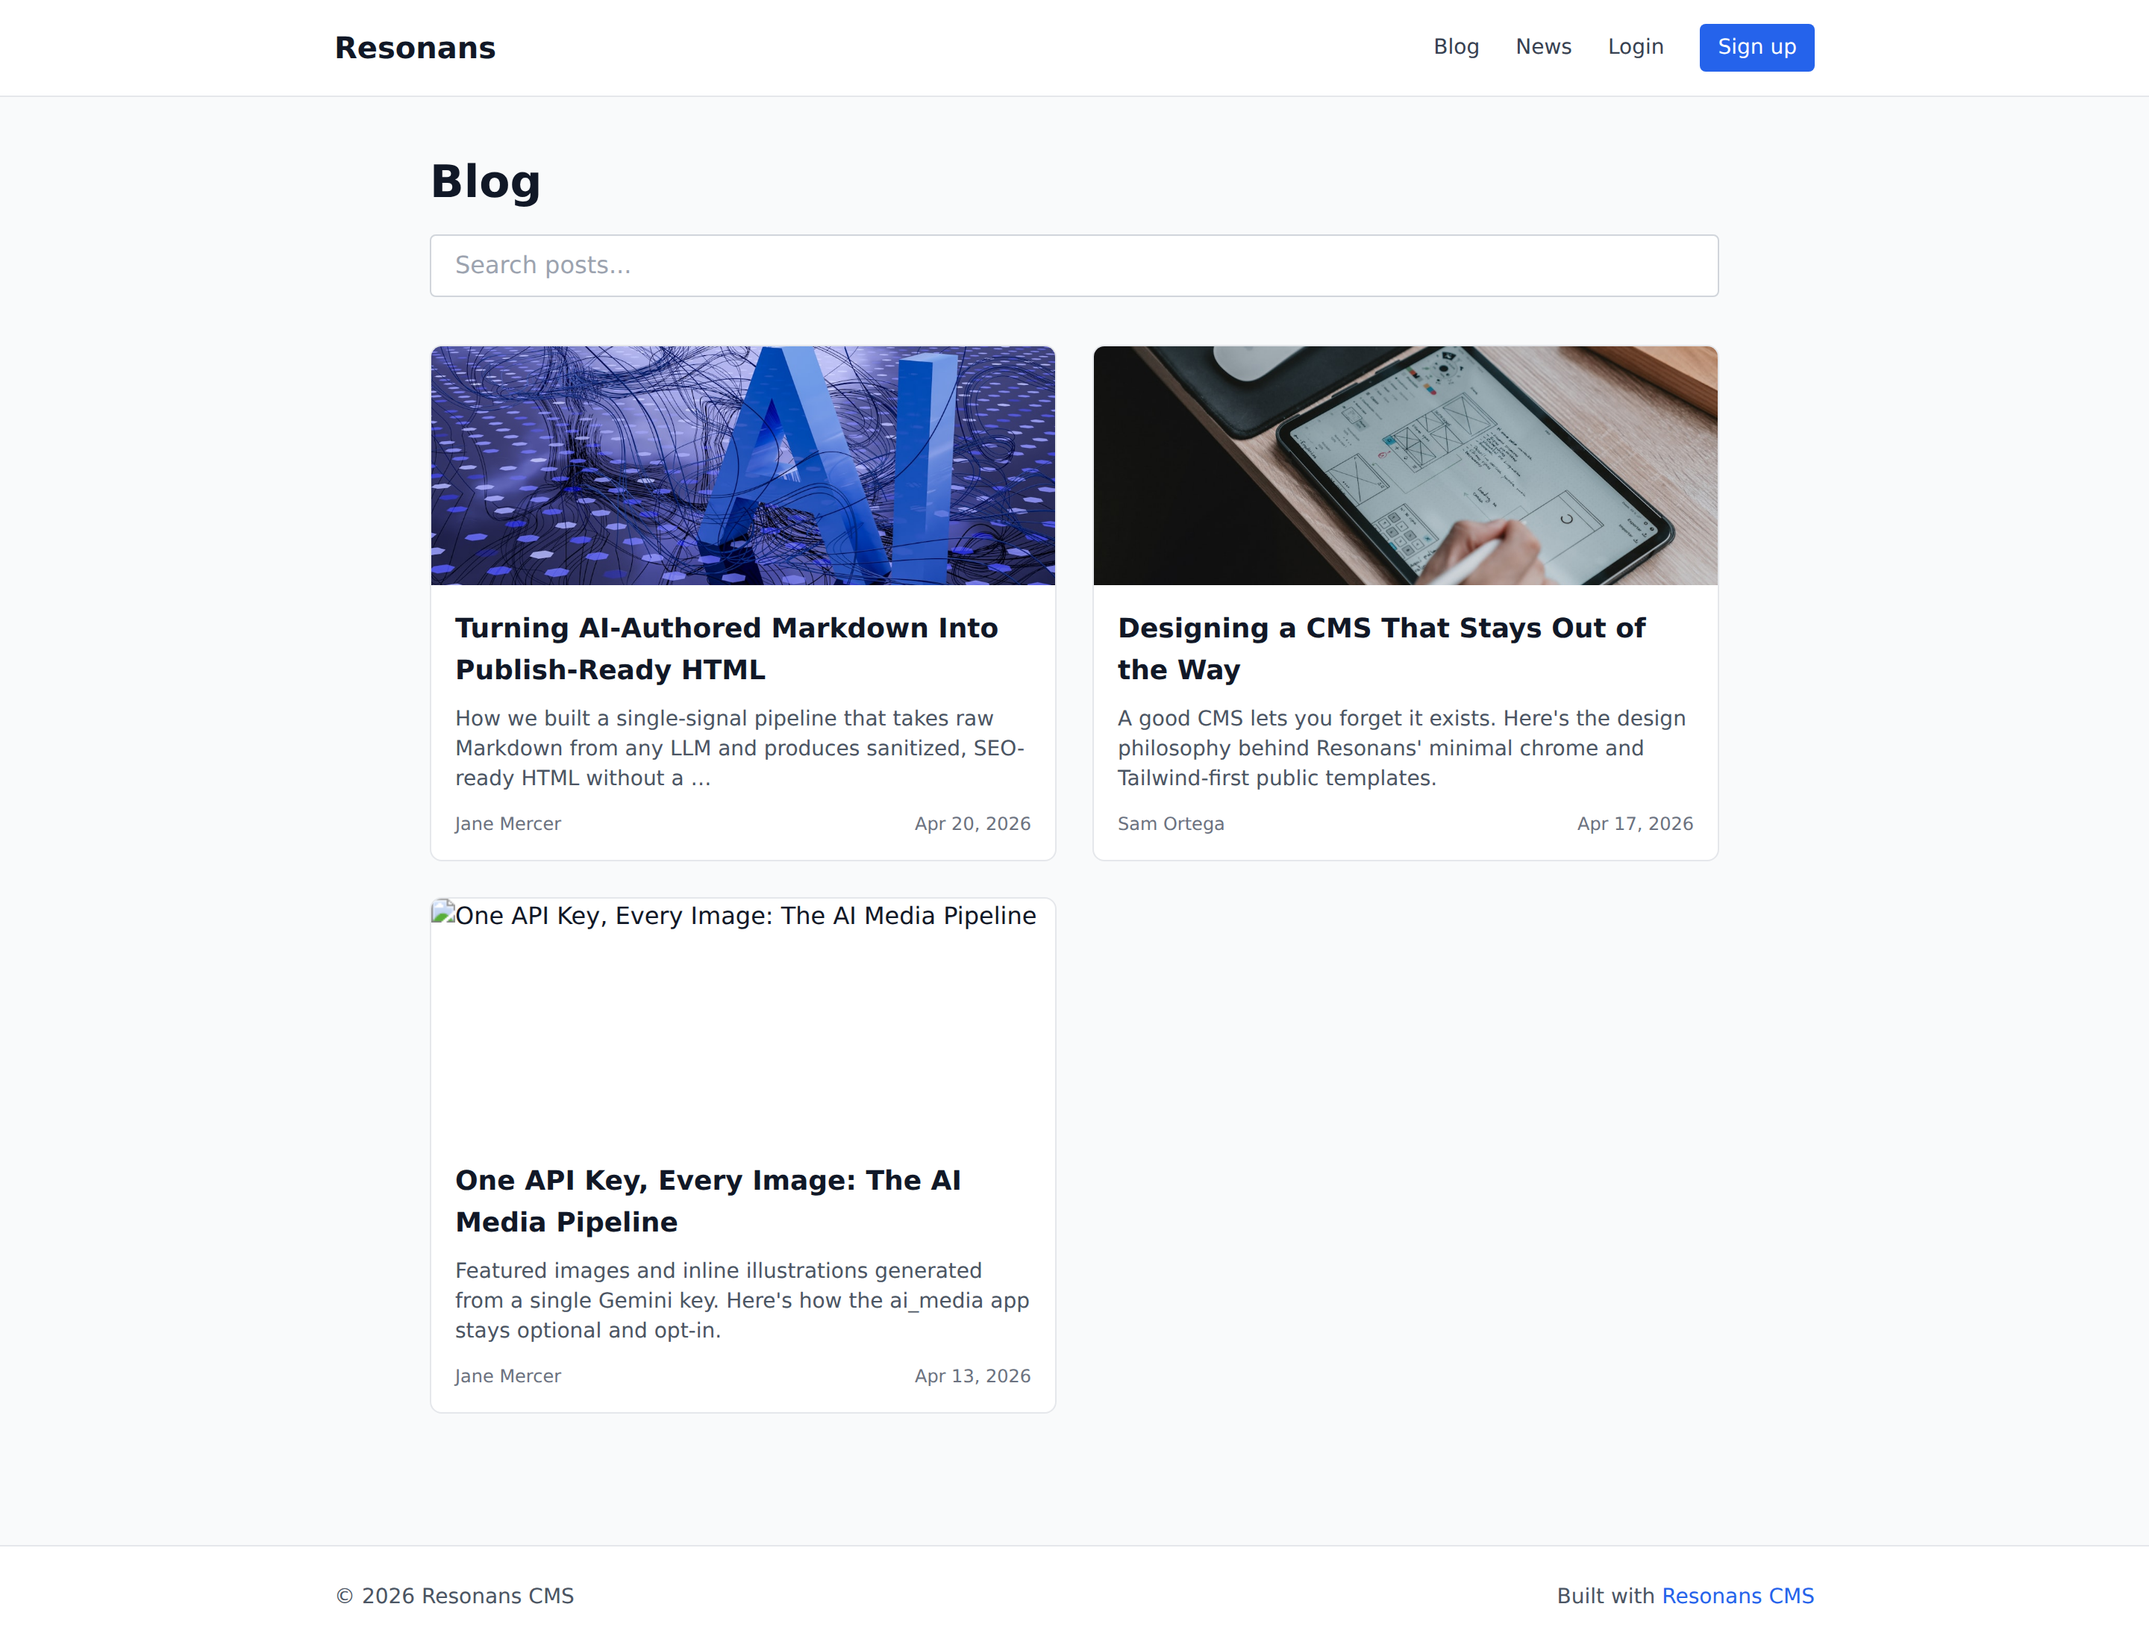
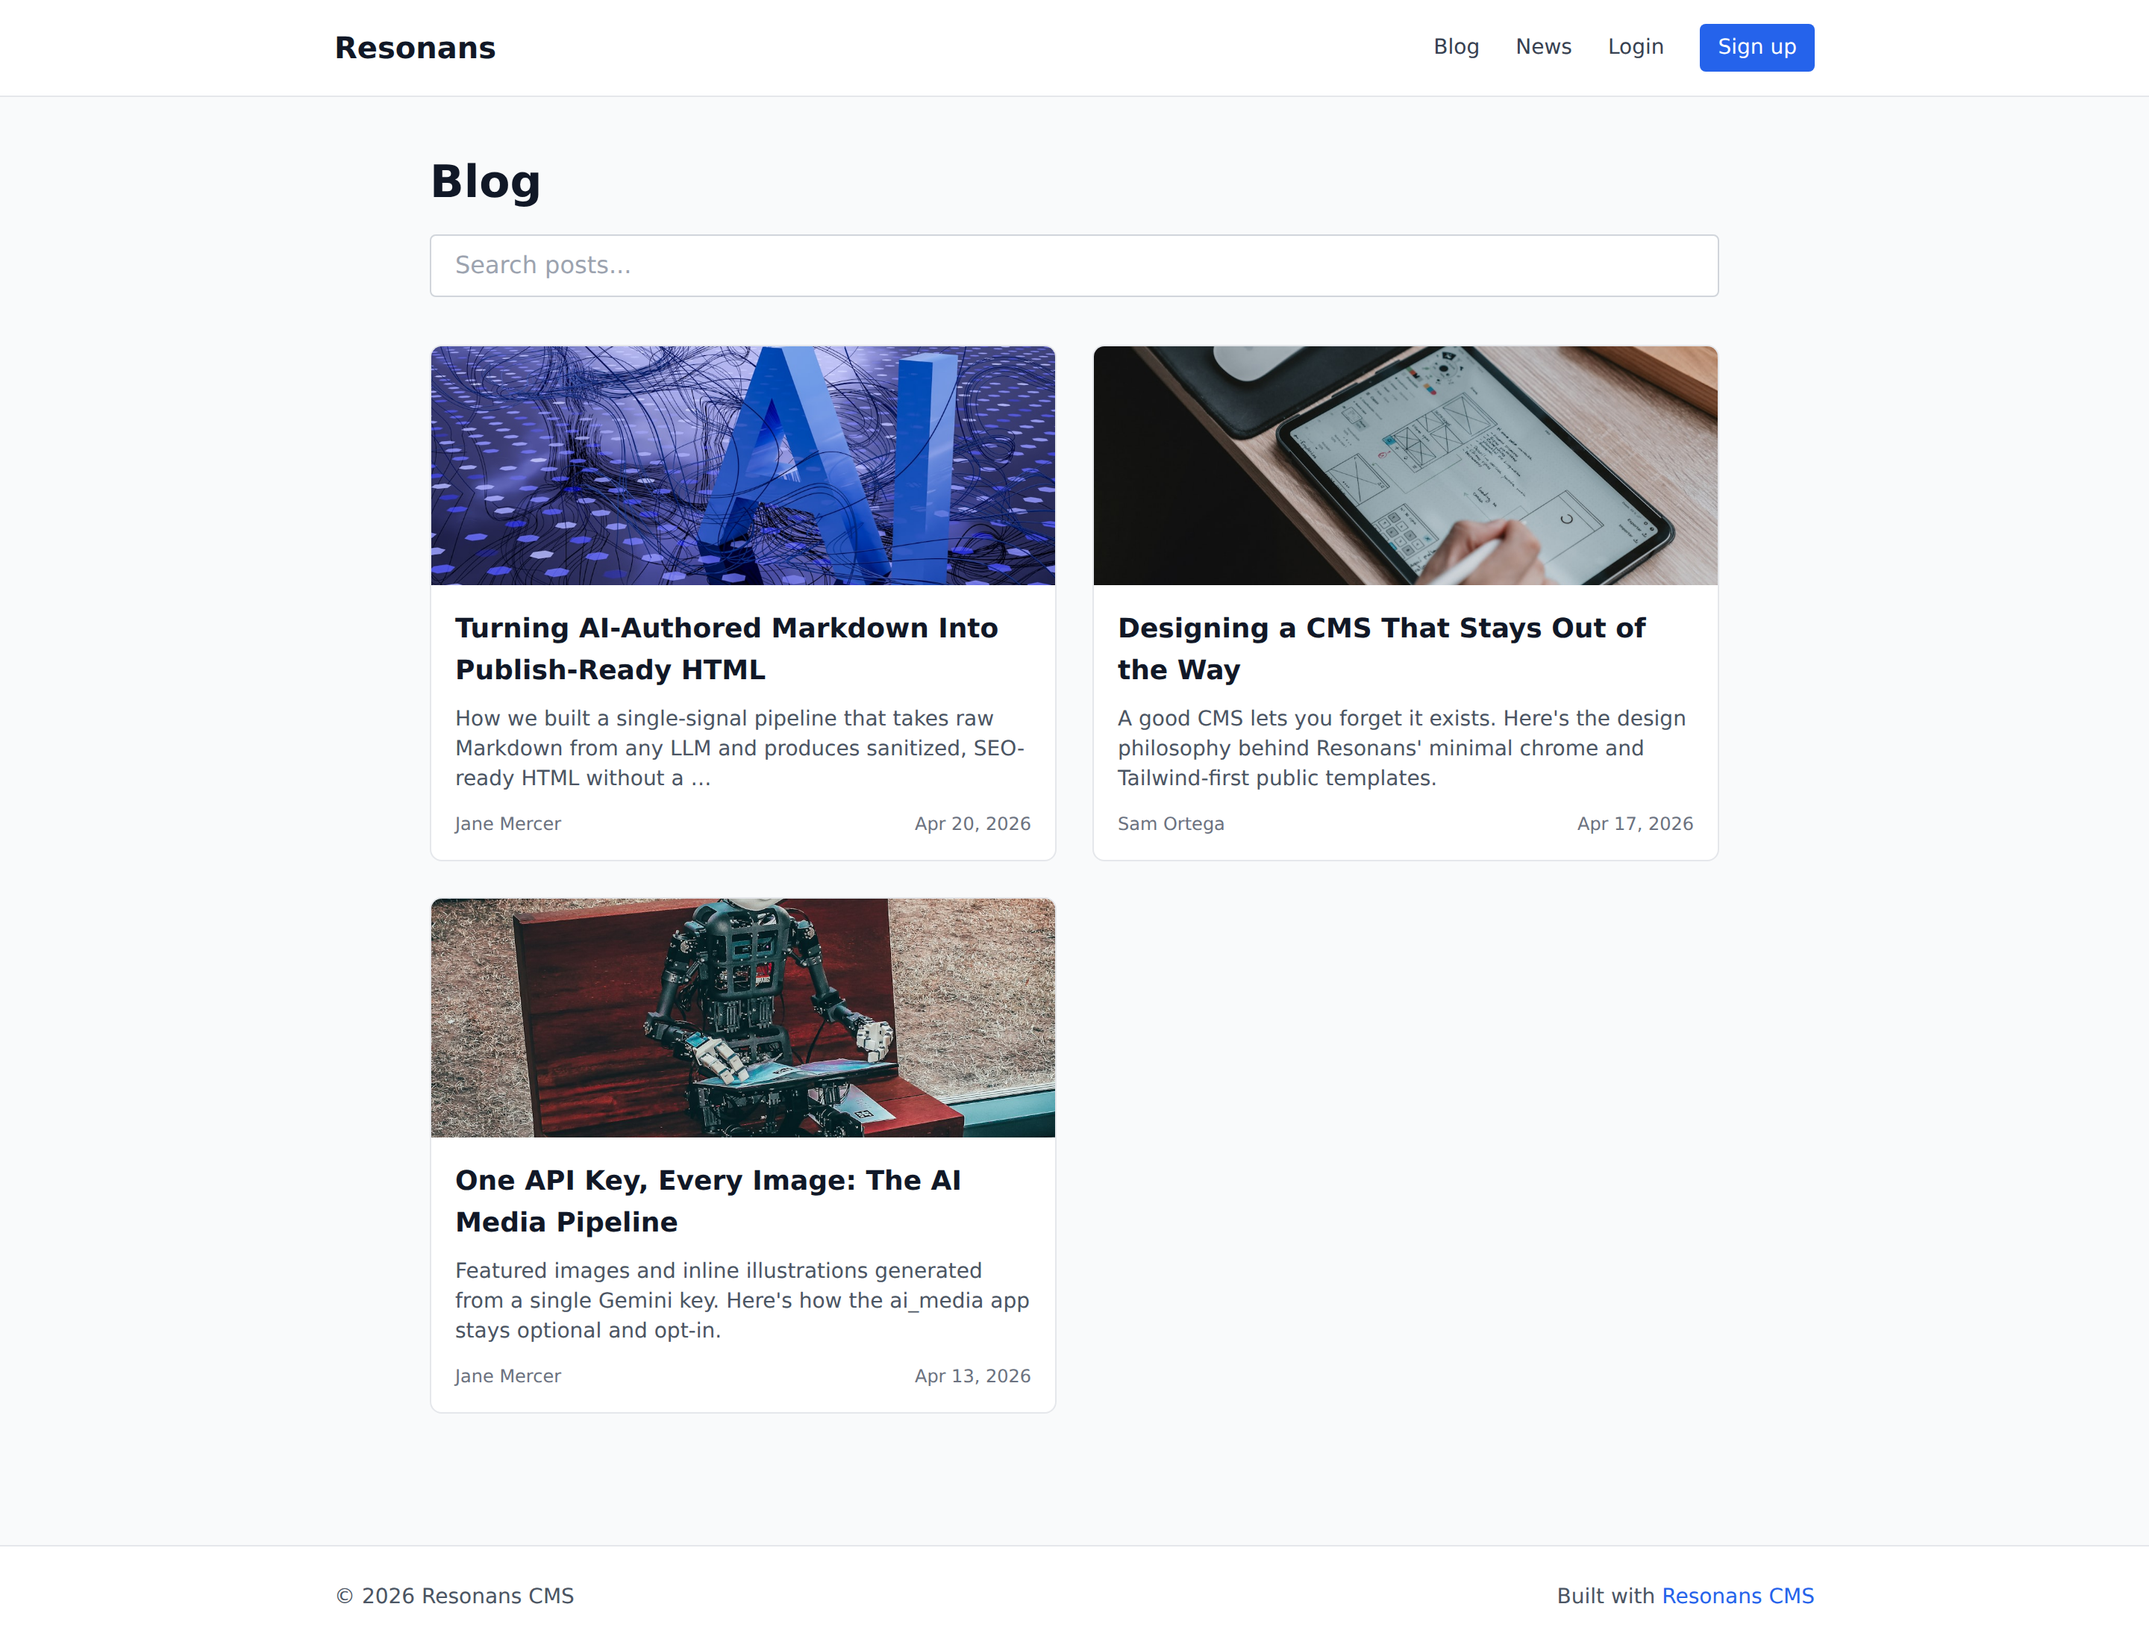
Add seed_demo management command and fix third post image
- New `python manage.py seed_demo [--reset]` creates two authors, three
  blog posts, two news articles, a newsletter sign-up list, and an
  internal-linking intent. Idempotent by default; --reset wipes first.
- Replace the broken Unsplash URL on the "One API Key, Every Image"
  post with a working one.
- Refresh the screenshots that showed the missing image (blog list,
  topic list) and the admin lists that changed after reseeding.
- Document the seed command in README.

Changed region(s): [[0.1875, 0.5312, 0.5, 0.6875]]

diff --git a/src/resonans_cms/apps/cms_admin/management/commands/seed_demo.py b/src/resonans_cms/apps/cms_admin/management/commands/seed_demo.py
@@ -1,0 +1,294 @@
+"""
+Seed the database with a small, realistic set of demo content so someone
+who just cloned the repo can see the CMS come alive with one command.
+
+    python manage.py seed_demo           # idempotent: does nothing if content exists
+    python manage.py seed_demo --reset   # wipe and recreate the demo content
+"""
+
+from datetime import timedelta
+
+from django.core.management.base import BaseCommand
+from django.utils import timezone
+
+from resonans_cms.apps.blog.models import (
+    Author,
+    Category,
+    ContentScope,
+    Post,
+    Tag,
+)
+from resonans_cms.apps.core.models import NewsletterSubscriber
+from resonans_cms.apps.linking.models import Keyword, UserIntent
+from resonans_cms.apps.news.models import NewsPost
+
+
+AUTHORS = [
+    {
+        "name": "Jane Mercer",
+        "slug": "jane-mercer",
+        "role": "Editor-in-Chief",
+        "bio": "Covers product strategy, content ops, and the intersection of AI with publishing workflows.",
+        "avatar_url": "https://i.pravatar.cc/200?img=47",
+    },
+    {
+        "name": "Sam Ortega",
+        "slug": "sam-ortega",
+        "role": "Senior Writer",
+        "bio": "Writes about design systems, typography, and building calm user interfaces.",
+        "avatar_url": "https://i.pravatar.cc/200?img=11",
+    },
+]
+
+CATEGORIES = [
+    {"name": "Technology", "slug": "technology", "scope": ContentScope.BLOG, "description": "Deep dives on software, AI, and infrastructure."},
+    {"name": "Design", "slug": "design", "scope": ContentScope.BLOG, "description": "Product design and visual language."},
+    {"name": "Markets", "slug": "markets", "scope": ContentScope.NEWS, "description": "Industry news and market moves."},
+]
+
+TAGS = [
+    ("AI", "ai"),
+    ("Django", "django"),
+    ("CMS", "cms"),
+    ("Design Systems", "design-systems"),
+]
+
+POST_P1_MD = """## Why this matters
+
+Teams that publish AI-generated content hit the same wall: the model emits Markdown, the CMS expects HTML, and the gap between them is full of broken escapes, orphan heading IDs, and `<script>` tags you never asked for.
+
+Resonans CMS closes the gap with a **pre-save signal** that:
+
+1. Accepts Markdown in a dedicated source field
+2. Runs it through markdown2 with fenced code, tables, and strike-through extras
+3. Sanitizes the output with nh3 using an allowlist of tags and attributes
+4. Stores the sanitized HTML in `content_raw` and keeps the Markdown source around for round-trip editing
+
+### What you avoid
+
+- `<style>` injection from prompt leakage
+- Heading IDs longer than 120 characters
+- `<iframe>` and `<object>` tags you didn't allowlist
+- `data:` URIs pointing at SVG
+
+All of this happens transparently at save time.
+
+> "The best sanitizer is the one you never think about."
+
+### Next steps
+
+Next release will add an opt-in prompt-injection filter for the sanitizer.
+"""
+
+POST_P2_MD = """## The invisible CMS
+
+Every CMS wants to be noticed. Tabs everywhere, nested menus, dashboards with twelve widgets you never read. Resonans goes the other way.
+
+### Three rules we follow
+
+1. **Public templates ship with zero brand assumptions.** System fonts, Tailwind utility classes, no "Powered by" headers.
+2. **Admin uses Unfold, not custom chrome.** Every hour building a custom admin is an hour you aren't writing.
+3. **The author never sees HTML.** Markdown goes in, HTML comes out.
+
+### What this looks like in practice
+
+A fresh install gives you a `/blog/` route, an admin under `/admin/`, and a `/cms/` dashboard with six tiles.
+
+No megamenu. No sidebar. Just content and the controls to ship it.
+"""
+
+POST_P3_MD = """Images used to be the slowest part of publishing. Sourcing, licensing, cropping, alt text — every post needed a separate pass. With a single **Gemini API key** in your settings, Resonans generates both hero and inline images from the post's own context.
+
+### The contract
+
+- Set `GEMINI_API_KEY` in your environment, or store it on the singleton `AiSetting`
+- Post save triggers optional image generation (controlled by `auto_generate_on_save`)
+- Missing key? The feature silently disables.
+
+### Why optional
+
+Not every project wants AI images in production. The `ai_media` app is a separate `INSTALLED_APPS` entry:
+
+```bash
+pip install resonans-cms[ai]
+```
+
+Drop the extra and the import lazy-fails to `None`. The core CMS keeps working.
+"""
+
+POSTS = [
+    {
+        "author": "jane-mercer",
+        "category": "technology",
+        "tags": ["ai", "cms", "django"],
+        "title": "Turning AI-Authored Markdown Into Publish-Ready HTML",
+        "slug": "ai-markdown-to-html",
+        "excerpt": "How we built a single-signal pipeline that takes raw Markdown from any LLM and produces sanitized, SEO-ready HTML without a round-trip to staging.",
+        "markdown": POST_P1_MD,
+        "takeaways": "- One signal converts Markdown to sanitized HTML on every save\n- nh3 + markdown2 pipeline: safe by default\n- Round-trip editing preserved via `content_markdown_source`",
+        "image": "https://images.unsplash.com/photo-1677442136019-21780ecad995?w=1200&q=80",
+        "days_ago": 2,
+    },
+    {
+        "author": "sam-ortega",
+        "category": "design",
+        "tags": ["cms", "design-systems"],
+        "title": "Designing a CMS That Stays Out of the Way",
+        "slug": "cms-stays-out-of-the-way",
+        "excerpt": "A good CMS lets you forget it exists. Here's the design philosophy behind Resonans' minimal chrome and Tailwind-first public templates.",
+        "markdown": POST_P2_MD,
+        "takeaways": "- Ship with minimal public chrome so projects add their own brand\n- Use Unfold for admin instead of inventing another dashboard\n- Authors work in Markdown, never raw HTML",
+        "image": "https://images.unsplash.com/photo-1586717791821-3f44a563fa4c?w=1200&q=80",
+        "days_ago": 5,
+    },
+    {
+        "author": "jane-mercer",
+        "category": "technology",
+        "tags": ["ai", "cms"],
+        "title": "One API Key, Every Image: The AI Media Pipeline",
+        "slug": "ai-media-one-api-key",
+        "excerpt": "Featured images and inline illustrations generated from a single Gemini key. Here's how the ai_media app stays optional and opt-in.",
+        "markdown": POST_P3_MD,
+        "takeaways": "- One `GEMINI_API_KEY` powers hero and inline generation\n- The AI app is an optional extras install\n- Singleton `AiSetting` lets non-developers swap models from the admin",
+        "image": "https://images.unsplash.com/photo-1620712943543-bcc4688e7485?w=1200&q=80",
+        "days_ago": 9,
+    },
+]
+
+NEWS = [
+    {
+        "author": "jane-mercer",
+        "category": "markets",
+        "title": "Resonans CMS 0.1.0 Released",
+        "slug": "resonans-cms-0-1-0-released",
+        "excerpt": "The first public release of an AI-friendly Django CMS lands on GitHub today.",
+        "markdown": "The first version of **Resonans CMS** is now available as a public GitHub repo.",
+        "image": "https://images.unsplash.com/photo-1519389950473-47ba0277781c?w=1200&q=80",
+        "days_ago": 1,
+    },
+    {
+        "author": "sam-ortega",
+        "category": "markets",
+        "title": "Unfold 0.90 Lands With Refreshed Dashboard Widgets",
+        "slug": "unfold-0-90-dashboard",
+        "excerpt": "The Django admin theme we ship picks up a new widget library and import/export polish.",
+        "markdown": "Unfold's latest release ships with better dashboard widgets and tighter accessibility defaults.",
+        "image": "https://images.unsplash.com/photo-1460925895917-afdab827c52f?w=1200&q=80",
+        "days_ago": 3,
+    },
+]
+
+INTENTS = [
+    {
+        "name": "Get started with Resonans",
+        "url": "https://github.com/miladsafaei-me/resonans-cms#quick-start",
+        "keywords": ["resonans cms", "AI-friendly django"],
+    },
+]
+
+SUBSCRIBERS = [
+    ("alex@example.com", "US"),
+    ("priya@example.com", "IN"),
+    ("hiro@example.com", "JP"),
+]
+
+
+class Command(BaseCommand):
+    help = "Populate the database with demo blog posts, news, authors, tags, and subscribers."
+
+    def add_arguments(self, parser):
+        parser.add_argument(
+            "--reset",
+            action="store_true",
+            help="Delete existing demo content before seeding.",
+        )
+
+    def handle(self, *args, **options):
+        if options["reset"]:
+            self.stdout.write("Clearing existing CMS content...")
+            Post.objects.all().delete()
+            NewsPost.objects.all().delete()
+            Tag.objects.all().delete()
+            Category.objects.all().delete()
+            Author.objects.all().delete()
+            UserIntent.objects.all().delete()
+            NewsletterSubscriber.objects.all().delete()
+
+        if Post.objects.exists() and not options["reset"]:
+            self.stdout.write(self.style.WARNING(
+                "Database already has posts. Run with --reset to wipe and reseed."
+            ))
+            return
+
+        self.stdout.write("Creating authors...")
+        authors = {
+            data["slug"]: Author.objects.create(
+                name=data["name"],
+                slug=data["slug"],
+                role=data["role"],
+                bio=data["bio"],
+                avatar_url=data["avatar_url"],
+            )
+            for data in AUTHORS
+        }
+
+        self.stdout.write("Creating categories...")
+        categories = {
+            data["slug"]: Category.objects.create(
+                name=data["name"],
+                slug=data["slug"],
+                content_scope=data["scope"],
+                description=data["description"],
+            )
+            for data in CATEGORIES
+        }
+
+        self.stdout.write("Creating tags...")
+        tags = {slug: Tag.objects.create(name=name, slug=slug) for name, slug in TAGS}
+
+        self.stdout.write("Creating blog posts...")
+        now = timezone.now()
+        for data in POSTS:
+            post = Post.objects.create(
+                title=data["title"],
+                slug=data["slug"],
+                excerpt=data["excerpt"],
+                content_markdown_source=data["markdown"],
+                key_takeaways_markdown_source=data["takeaways"],
+                status=Post.Status.PUBLISHED,
+                author=authors[data["author"]],
+                category=categories[data["category"]],
+                featured_image_url=data["image"],
+                published_at=now - timedelta(days=data["days_ago"]),
+            )
+            post.tags.add(*(tags[t] for t in data["tags"]))
+
+        self.stdout.write("Creating news articles...")
+        for data in NEWS:
+            NewsPost.objects.create(
+                title=data["title"],
+                slug=data["slug"],
+                excerpt=data["excerpt"],
+                content_markdown_source=data["markdown"],
+                status=NewsPost.Status.PUBLISHED,
+                author=authors[data["author"]],
+                category=categories[data["category"]],
+                featured_image_url=data["image"],
+                published_at=now - timedelta(days=data["days_ago"]),
+            )
+
+        self.stdout.write("Creating internal-link intents...")
+        for data in INTENTS:
+            intent = UserIntent.objects.create(name=data["name"], target_url=data["url"])
+            for phrase in data["keywords"]:
+                Keyword.objects.create(intent=intent, phrase=phrase)
+
+        self.stdout.write("Creating newsletter subscribers...")
+        for email, country in SUBSCRIBERS:
+            NewsletterSubscriber.objects.create(email=email, country_code=country)
+
+        self.stdout.write(self.style.SUCCESS(
+            f"Seeded {Post.objects.count()} posts, {NewsPost.objects.count()} news, "
+            f"{Author.objects.count()} authors, {Tag.objects.count()} tags, "
+            f"{NewsletterSubscriber.objects.count()} subscribers."
+        ))

diff --git a/README.md b/README.md
@@ -88,6 +88,16 @@ pip install resonans-cms
 
 Visit `http://localhost:8000/cms/` to see the admin dashboard and `/blog/` for the public site.
 
+## Demo content
+
+Want to see the CMS populated? Run the bundled seed command after migrating:
+
+```bash
+python manage.py seed_demo --reset
+```
+
+That creates two authors, three blog posts, two news articles, a newsletter list, and an internal-linking intent — the same content shown in the screenshots above.
+
 ## Optional features
 
 - **AI image generation**: `pip install resonans-cms[ai]` and set `GEMINI_API_KEY` in your environment
@@ -102,6 +112,7 @@ python -m venv .venv && source .venv/bin/activate
 pip install -e ".[dev,ai,celery]"
 cd demo
 python manage.py migrate
+python manage.py seed_demo
 python manage.py createsuperuser
 python manage.py runserver
 ```
